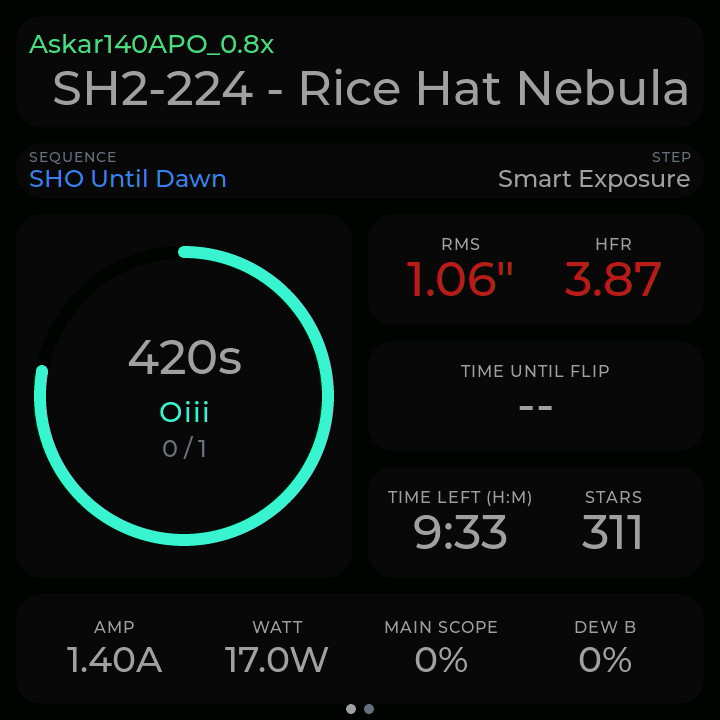
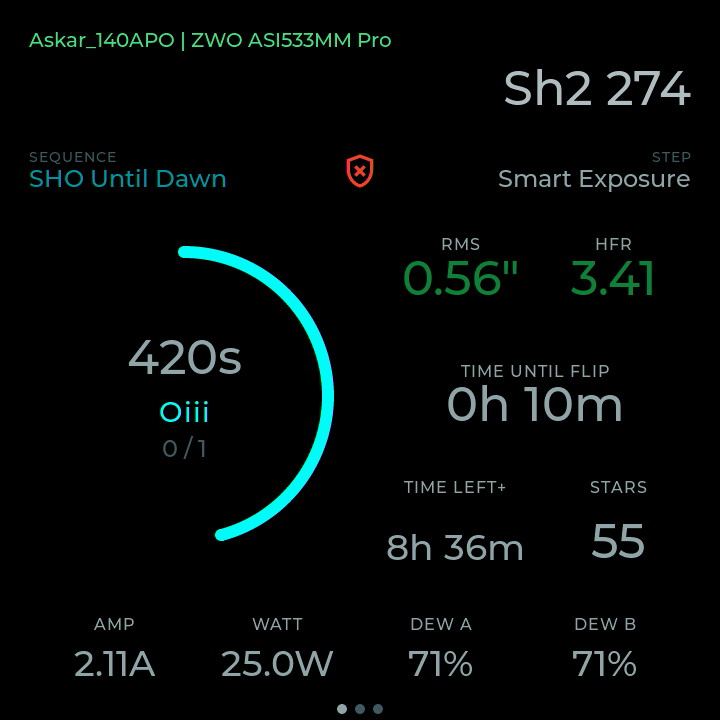
feat: Add exposure count display to summary card layout

diff --git a/main/ui/nina_summary.c b/main/ui/nina_summary.c
@@ -127,6 +127,8 @@ typedef struct {
     lv_obj_t *seq_row;          /* sequence info row (visible in 1-2 card mode) */
     lv_obj_t *lbl_seq_title;    /* "SEQUENCE" label */
     lv_obj_t *lbl_seq_name;
+    lv_obj_t *lbl_exp_title;    /* "EXPOSURES" label */
+    lv_obj_t *lbl_exp_val;      /* exposure count "X / Y" */
     lv_obj_t *lbl_step_title;   /* "STEP" label */
     lv_obj_t *lbl_seq_step;
     lv_obj_t *stats_row;
@@ -319,19 +321,24 @@ static void create_card(summary_card_t *sc, lv_obj_t *parent, int instance_index
     lv_label_set_text(sc->lbl_pct, "");
 
     /* ── Sequence info row (shown in 1-2 card mode) ── */
+    /* Three equal-width columns: SEQUENCE | EXPOSURES | STEP
+     * Each column has flex_grow=1 so they split width evenly,
+     * keeping the center column centered regardless of content. */
     sc->seq_row = lv_obj_create(sc->card);
     lv_obj_remove_style_all(sc->seq_row);
     lv_obj_set_width(sc->seq_row, LV_PCT(100));
     lv_obj_set_height(sc->seq_row, LV_SIZE_CONTENT);
     lv_obj_set_flex_flow(sc->seq_row, LV_FLEX_FLOW_ROW);
-    lv_obj_set_flex_align(sc->seq_row, LV_FLEX_ALIGN_SPACE_BETWEEN,
+    lv_obj_set_flex_align(sc->seq_row, LV_FLEX_ALIGN_START,
                           LV_FLEX_ALIGN_CENTER, LV_FLEX_ALIGN_CENTER);
     lv_obj_add_flag(sc->seq_row, LV_OBJ_FLAG_HIDDEN); /* hidden by default */
 
+    /* Left column: SEQUENCE */
     lv_obj_t *seq_left = lv_obj_create(sc->seq_row);
     lv_obj_remove_style_all(seq_left);
     lv_obj_clear_flag(seq_left, LV_OBJ_FLAG_CLICKABLE);
-    lv_obj_set_size(seq_left, LV_SIZE_CONTENT, LV_SIZE_CONTENT);
+    lv_obj_set_height(seq_left, LV_SIZE_CONTENT);
+    lv_obj_set_flex_grow(seq_left, 1);
     lv_obj_set_flex_flow(seq_left, LV_FLEX_FLOW_COLUMN);
 
     sc->lbl_seq_title = lv_label_create(seq_left);
@@ -348,10 +355,38 @@ static void create_card(summary_card_t *sc, lv_obj_t *parent, int instance_index
     lv_obj_set_style_text_font(sc->lbl_seq_name, &lv_font_montserrat_18, 0);
     lv_label_set_text(sc->lbl_seq_name, "----");
 
+    /* Center column: EXPOSURES */
+    lv_obj_t *seq_center = lv_obj_create(sc->seq_row);
+    lv_obj_remove_style_all(seq_center);
+    lv_obj_clear_flag(seq_center, LV_OBJ_FLAG_CLICKABLE);
+    lv_obj_set_height(seq_center, LV_SIZE_CONTENT);
+    lv_obj_set_flex_grow(seq_center, 1);
+    lv_obj_set_flex_flow(seq_center, LV_FLEX_FLOW_COLUMN);
+    lv_obj_set_flex_align(seq_center, LV_FLEX_ALIGN_START,
+                          LV_FLEX_ALIGN_CENTER, LV_FLEX_ALIGN_CENTER);
+
+    sc->lbl_exp_title = lv_label_create(seq_center);
+    lv_label_set_text(sc->lbl_exp_title, "EXPOSURES");
+    lv_obj_set_style_text_font(sc->lbl_exp_title, &lv_font_montserrat_12, 0);
+    lv_obj_set_style_text_letter_space(sc->lbl_exp_title, 1, 0);
+    lv_obj_set_style_text_align(sc->lbl_exp_title, LV_TEXT_ALIGN_CENTER, 0);
+    if (current_theme) {
+        int gb = app_config_get()->color_brightness;
+        lv_obj_set_style_text_color(sc->lbl_exp_title,
+            lv_color_hex(app_config_apply_brightness(current_theme->label_color, gb)), 0);
+    }
+
+    sc->lbl_exp_val = lv_label_create(seq_center);
+    lv_obj_set_style_text_font(sc->lbl_exp_val, &lv_font_montserrat_18, 0);
+    lv_obj_set_style_text_align(sc->lbl_exp_val, LV_TEXT_ALIGN_CENTER, 0);
+    lv_label_set_text(sc->lbl_exp_val, "-- / --");
+
+    /* Right column: STEP */
     lv_obj_t *seq_right = lv_obj_create(sc->seq_row);
     lv_obj_remove_style_all(seq_right);
     lv_obj_clear_flag(seq_right, LV_OBJ_FLAG_CLICKABLE);
-    lv_obj_set_size(seq_right, LV_SIZE_CONTENT, LV_SIZE_CONTENT);
+    lv_obj_set_height(seq_right, LV_SIZE_CONTENT);
+    lv_obj_set_flex_grow(seq_right, 1);
     lv_obj_set_flex_flow(seq_right, LV_FLEX_FLOW_COLUMN);
     lv_obj_set_flex_align(seq_right, LV_FLEX_ALIGN_START,
                           LV_FLEX_ALIGN_END, LV_FLEX_ALIGN_END);
@@ -533,6 +568,8 @@ static void update_card_layout(summary_card_t *sc, int visible_count) {
         lv_obj_clear_flag(sc->seq_row, LV_OBJ_FLAG_HIDDEN);
         lv_obj_set_style_text_font(sc->lbl_seq_title, p->seq_label, 0);
         lv_obj_set_style_text_font(sc->lbl_seq_name, p->seq_value, 0);
+        lv_obj_set_style_text_font(sc->lbl_exp_title, p->seq_label, 0);
+        lv_obj_set_style_text_font(sc->lbl_exp_val, p->seq_value, 0);
         lv_obj_set_style_text_font(sc->lbl_step_title, p->seq_label, 0);
         lv_obj_set_style_text_font(sc->lbl_seq_step, p->seq_value, 0);
     } else {
@@ -830,10 +867,21 @@ void summary_page_update(const nina_client_t *instances, int count) {
                 set_label_if_changed(sc->lbl_seq_step, "----");
             }
 
+            /* Exposure count */
+            if (d->exposure_iterations > 0) {
+                SET_LABEL_FMT_IF_CHANGED(sc->lbl_exp_val, 32, "%d / %d",
+                    d->exposure_count, d->exposure_iterations);
+            } else {
+                set_label_if_changed(sc->lbl_exp_val, "-- / --");
+            }
+
             if (current_theme) {
                 lv_obj_set_style_text_color(sc->lbl_seq_name,
                     lv_color_hex(app_config_apply_brightness(
                         current_theme->header_text_color, gb)), 0);
+                lv_obj_set_style_text_color(sc->lbl_exp_val,
+                    lv_color_hex(app_config_apply_brightness(
+                        current_theme->text_color, gb)), 0);
                 lv_obj_set_style_text_color(sc->lbl_seq_step,
                     lv_color_hex(app_config_apply_brightness(
                         current_theme->text_color, gb)), 0);
@@ -995,9 +1043,9 @@ void summary_page_apply_theme(void) {
         /* Stat labels + sequence title labels */
         lv_obj_t *labels[] = {
             sc->lbl_rms_label, sc->lbl_hfr_label, sc->lbl_flip_label,
-            sc->lbl_seq_title, sc->lbl_step_title
+            sc->lbl_seq_title, sc->lbl_exp_title, sc->lbl_step_title
         };
-        for (int j = 0; j < 5; j++) {
+        for (int j = 0; j < 6; j++) {
             if (labels[j]) {
                 lv_obj_set_style_text_color(labels[j],
                     lv_color_hex(app_config_apply_brightness(
